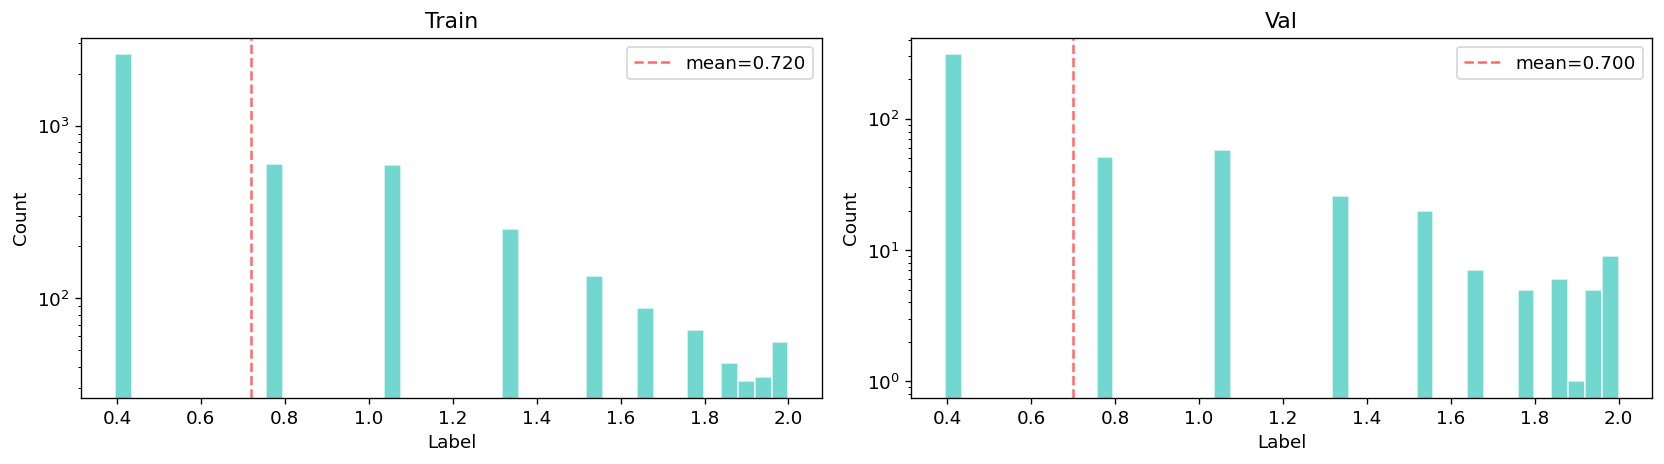
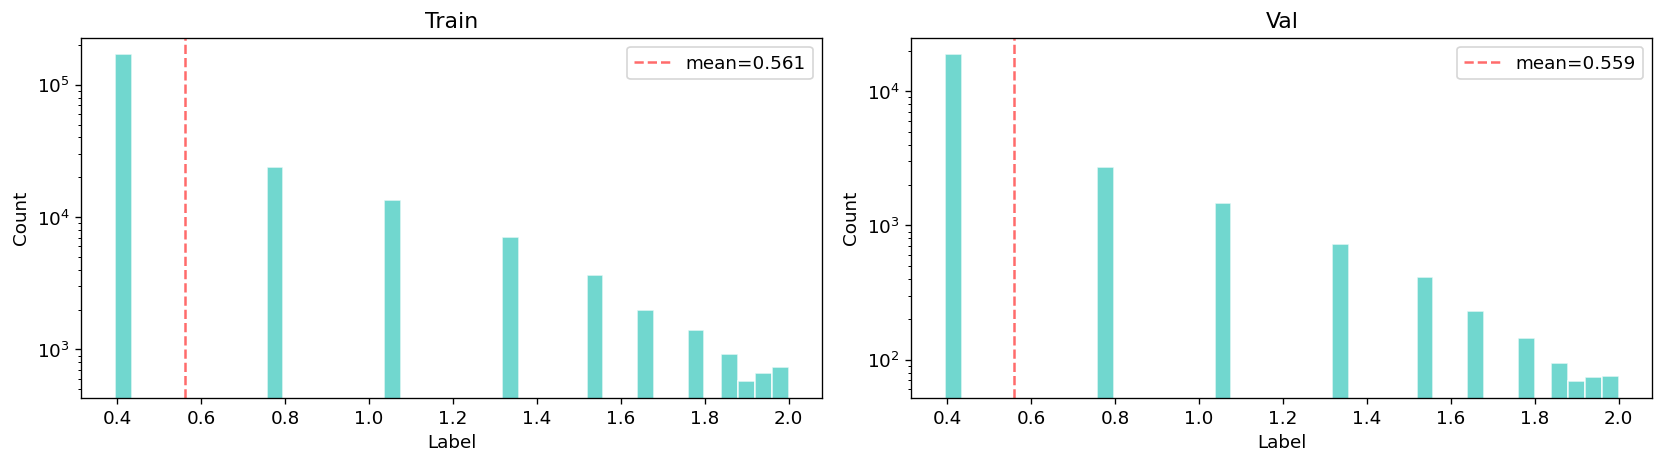
feat: implement hourly stratified sampling, user-based splitting, and rare item filtering in data preprocessing pipeline

diff --git a/data/preprocess/build.py b/data/preprocess/build.py
@@ -15,6 +15,8 @@ from .config import (
     VAL_PATH,
     METADATA_PATH,
     TIMESTAMP_RANGE,
+    MIN_ITEM_INTERACTIONS,
+    HOUR_BIN_SIZE,
     TRAIN_RATIO,
     RANDOM_SEED,
 )
@@ -47,6 +49,17 @@ def run(n_rows: int | None = None):
     print(f"     After dedup:        {n_before - n_dup:,} / {n_before:,}")
     print(f"     After timestamp:    {len(df):,} / {n_before:,} (range {t_min}..{t_max})")
 
+    # ── 2b. Filter rare items ──
+    if MIN_ITEM_INTERACTIONS > 0:
+        with timer("2b. Filter rare items"):
+            n_before = len(df)
+            item_counts = df["item_id"].value_counts()
+            valid_items = item_counts[item_counts >= MIN_ITEM_INTERACTIONS].index
+            df = df[df["item_id"].isin(valid_items)]
+        n_removed = n_before - len(df)
+        print(f"     Items < {MIN_ITEM_INTERACTIONS} interactions removed: {n_removed:,} rows ({n_removed / n_before * 100:.1f}%)")
+        print(f"     Kept {len(df):,} / {n_before:,} rows")
+
     # ── 3. Score ──
     with timer("3. Score behavior"):
         score_map = {"pv": 1, "fav": 2, "cart": 3, "buy": 4}
@@ -70,11 +83,25 @@ def run(n_rows: int | None = None):
     print(f"     Users: {n_users:,}  Items: {n_items:,}  Sparsity: {sparsity:.4%}")
     print(f"     {n_before_gb:,} rows \u2192 {len(df):,} rows ({compression:.1f}% reduction)")
 
-    # ── 4b. Take top N by timestamp ──
+    # ── 4b. Stratified sample by hour ──
     if n_rows is not None and n_rows < len(df):
-        with timer("4b. Take top N by timestamp"):
-            df = df.sort_values("Timestamp", ascending=False).head(n_rows).reset_index(drop=True)
-        print(f"     Took {n_rows:,} most recent (user, item) pairs")
+        with timer("4b. Stratified sample by hour"):
+            df["_hour_bin"] = df["Timestamp"] // (HOUR_BIN_SIZE * 3600)
+            freq = df["_hour_bin"].value_counts(normalize=True)
+            samples_per_bin = (freq * n_rows).round().astype(int)
+            parts = []
+            actual = 0
+            for bin_val, n_take in samples_per_bin.items():
+                bin_df = df[df["_hour_bin"] == bin_val]
+                n_take = min(n_take, len(bin_df))
+                if n_take > 0:
+                    parts.append(bin_df.sample(n=n_take, random_state=RANDOM_SEED))
+                    actual += n_take
+            df = pd.concat(parts, ignore_index=True)
+            df = df.drop(columns=["_hour_bin"])
+        n_hours = int((df["Timestamp"].max() - df["Timestamp"].min()) / 3600)
+        print(f"     Sampled {actual:,} rows across time buckets")
+        print(f"     Timestamp span: ~{n_hours} hours")
         n_users = df["UserId"].nunique()
         n_items = df["ItemId"].nunique()
 
@@ -86,7 +113,7 @@ def run(n_rows: int | None = None):
         df["Label"] = df["Label"].astype(np.float32)
     print(f"     Raw range: [{raw_min}, {raw_max}] \u2192 (0, 2) via 2*tanh(x/5)")
 
-    # Label distribution (binned)
+    # Label distribution
     print(f"\n     Label distribution (binned):")
     bins = [0, 0.5, 1.0, 1.25, 1.5, 1.75, 2.0]
     labels_bin = [f"{bins[i]:.2f}-{bins[i+1]:.2f}" for i in range(len(bins) - 1)]
@@ -94,17 +121,20 @@ def run(n_rows: int | None = None):
     for lbl, cnt in binned.items():
         print(f"       {lbl:>9}: {cnt:>8,} ({cnt / len(df) * 100:5.2f}%)")
 
-    # ── 5. Split ──
-    with timer("5. Split"):
-        train, val = train_test_split(
-            df,
+    # ── 5. Split by user ──
+    with timer("5. Split by user"):
+        unique_users = pd.Series(df["UserId"].unique())
+        train_users, val_users = train_test_split(
+            unique_users,
             test_size=1 - TRAIN_RATIO,
             random_state=RANDOM_SEED,
         )
+        train = df[df["UserId"].isin(train_users)].copy()
+        val = df[df["UserId"].isin(val_users)].copy()
     total = len(train) + len(val)
-    print(f"     Train: {len(train):,} ({len(train) / total * 100:.1f}%)")
-    print(f"     Val:   {len(val):,} ({len(val) / total * 100:.1f}%)")
-    print(f"     Label mean: train={train['Label'].mean():.2f}  val={val['Label'].mean():.2f}")
+    print(f"     Train users: {len(train_users):,} | rows: {len(train):,} ({len(train) / total * 100:.1f}%)")
+    print(f"     Val users:   {len(val_users):,} | rows: {len(val):,} ({len(val) / total * 100:.1f}%)")
+    print(f"     Label mean: train={train['Label'].mean():.4f}  val={val['Label'].mean():.4f}")
 
     # ── 6. Save ──
     with timer("6. Save"):
@@ -123,10 +153,16 @@ def run(n_rows: int | None = None):
             "n_val": len(val),
             "n_users": n_users,
             "n_items": n_items,
+            "n_train_users": int(train["UserId"].nunique()),
+            "n_val_users": int(val["UserId"].nunique()),
+            "min_item_interactions": MIN_ITEM_INTERACTIONS,
+            "hour_bin_size": HOUR_BIN_SIZE,
+            "sampling": "stratified_by_hour",
+            "split": "user_holdout",
             "label_raw_range": [int(raw_min), int(raw_max)],
-            "label_norm": "2*sigmoid -> (0, 2)",
+            "label_norm": "2*tanh(x/5) -> (0, 2)",
             "label_percentiles": {f"{p}%": round(float(df["Label"].quantile(p / 100)), 4) for p in [1, 5, 10, 25, 50, 75, 90, 95, 99]},
-            "timestamp_range": list(TIMESTAMP_RANGE),
+            "timestamp_span_hours": int((df["Timestamp"].max() - df["Timestamp"].min()) / 3600),
             "train_ratio": TRAIN_RATIO,
             "random_seed": RANDOM_SEED,
             "columns": ["UserId", "ItemId", "Timestamp", "Label"],

diff --git a/data/preprocess/load_data.py b/data/preprocess/load_data.py
@@ -1,0 +1,29 @@
+import shutil
+from pathlib import Path
+
+import kagglehub
+
+RAW_DIR = Path("data/raw")
+RAW_FILE = RAW_DIR / "UserBehavior.csv"
+
+
+def run():
+    RAW_DIR.mkdir(parents=True, exist_ok=True)
+
+    if RAW_FILE.exists():
+        resp = input(f"{RAW_FILE} already exists. Download again? (y/N): ")
+        if resp.lower() != "y":
+            print("Skipped.")
+            return
+
+    print("Downloading UserBehavior dataset from Kaggle...")
+    path = kagglehub.dataset_download("marwa80/userbehavior")
+    src = Path(path) / "UserBehavior.csv"
+
+    print(f"Copying {src} -> {RAW_FILE} ...")
+    shutil.copy2(src, RAW_FILE)
+    print(f"Done. ({RAW_FILE})")
+
+
+if __name__ == "__main__":
+    run()

diff --git a/data/preprocess/config.py b/data/preprocess/config.py
@@ -16,6 +16,10 @@ DTYPES = {
 
 TIMESTAMP_RANGE = (1511568000, 1512345600)
 
+MIN_ITEM_INTERACTIONS = 2
+
+HOUR_BIN_SIZE = 4
+
 TRAIN_RATIO = 0.9
 RANDOM_SEED = 42
 

diff --git a/data/preprocess/eda.py b/data/preprocess/eda.py
@@ -132,12 +132,14 @@ def run():
     print(f"\n{SEP}")
     print("  4. Train vs Val")
     print(SEP)
+    user_overlap = len(set(train["UserId"].unique()) & set(val["UserId"].unique()))
     print(f"\n  {'Metric':<25} {'Train':>12} {'Val':>12}")
     print(f"  {'-'*25} {'-'*12} {'-'*12}")
     print(f"  {'Rows':<25} {len(train):>12,} {len(val):>12,}")
     print(f"  {'Users':<25} {train['UserId'].nunique():>12,} {val['UserId'].nunique():>12,}")
     print(f"  {'Items':<25} {train['ItemId'].nunique():>12,} {val['ItemId'].nunique():>12,}")
     print(f"  {'Label mean':<25} {train['Label'].mean():>12.4f} {val['Label'].mean():>12.4f}")
+    print(f"  {'User overlap':<25} {user_overlap:>12,} ({user_overlap / val['UserId'].nunique() * 100:.1f}% of val)")
 
     # ── 5. Summary ──
     print(f"\n{SEP}")